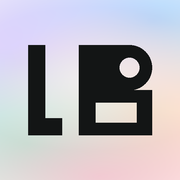
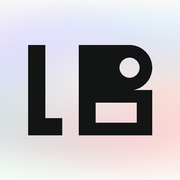
feat: changed aurora mesh for version 1.1

Changed region(s): [[0.0556, 0.0, 1.0, 0.1944], [0.0, 0.8889, 1.0, 1.0]]

diff --git a/src/styles.css b/src/styles.css
@@ -127,28 +127,28 @@ body {
       transparent 100%
     ),
     radial-gradient(
-      ellipse 105% 40% at 55% 98%,
-      rgb(var(--mesh-rose) / 0.6),
+      ellipse 90% 32% at 60% 70%,
+      rgb(var(--mesh-rose) / 0.55),
       transparent 100%
     ),
     radial-gradient(
-      ellipse 95% 55% at 15% 80%,
-      rgb(var(--mesh-mint) / 0.75),
+      ellipse 84% 38% at 20% 65%,
+      rgb(var(--mesh-mint) / 0.6),
       transparent 100%
     ),
     radial-gradient(
-      ellipse 90% 60% at 80% 62%,
-      rgb(var(--mesh-peach) / 0.75),
+      ellipse 82% 44% at 81% 57%,
+      rgb(var(--mesh-peach) / 0.65),
       transparent 100%
     ),
     radial-gradient(
-      ellipse 90% 65% at 12% 35%,
-      rgb(var(--mesh-lavender) / 0.8),
+      ellipse 80% 46% at 20% 42%,
+      rgb(var(--mesh-lavender) / 0.7),
       transparent 100%
     ),
     radial-gradient(
-      ellipse 100% 50% at 85% 12%,
-      rgb(var(--mesh-sky) / 0.85),
+      ellipse 85% 34% at 66% 32%,
+      rgb(var(--mesh-sky) / 0.65),
       transparent 100%
     );
 }
